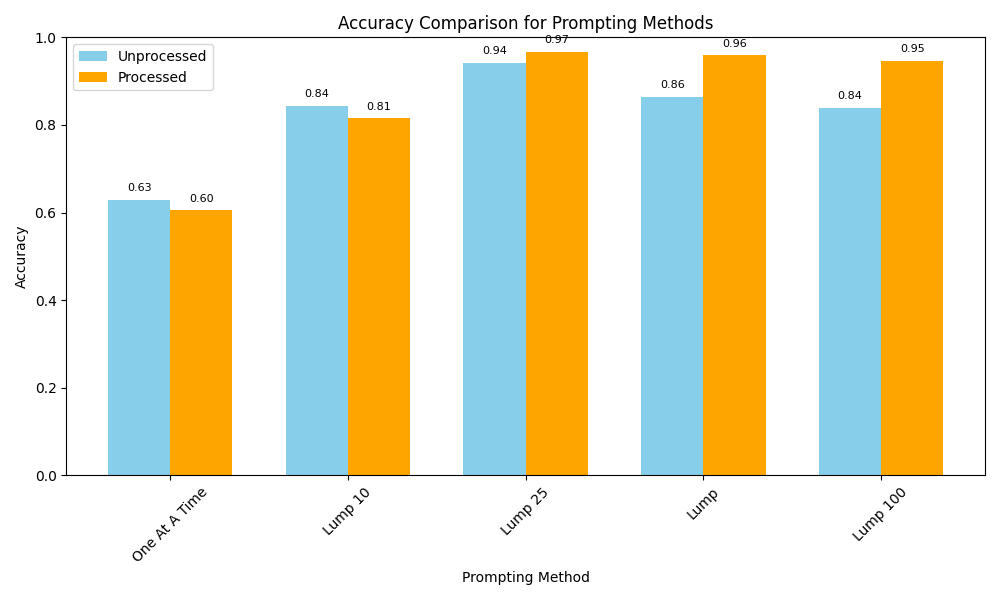
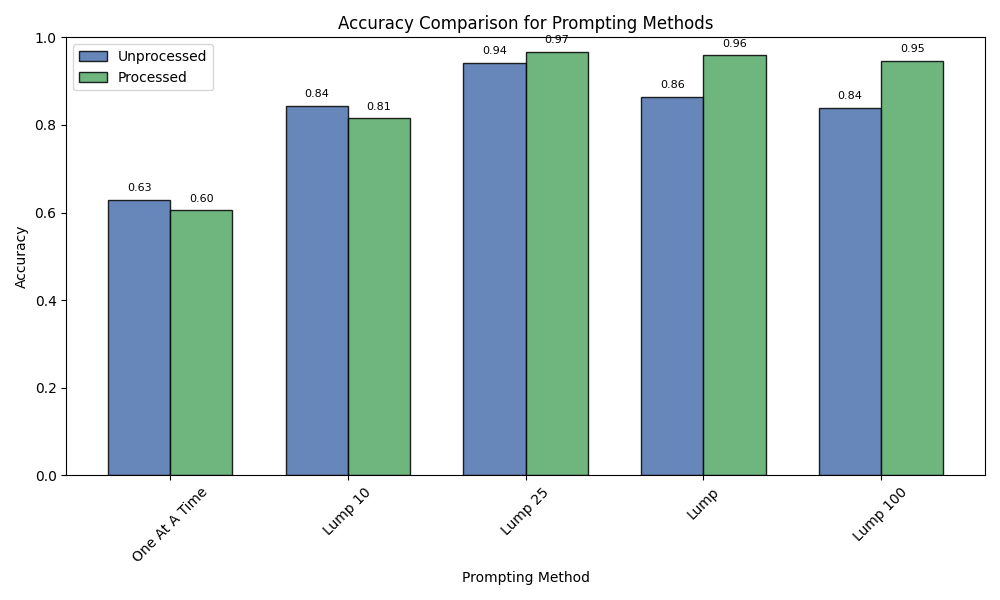
Added plots

diff --git a/langchain_intro/accuracyPlot3_1.py b/langchain_intro/accuracyPlot3_1.py
@@ -42,8 +42,8 @@ width = 0.35  # Width of bars
 
 # Plotting
 plt.figure(figsize=(10, 6))
-plt.bar(x - width / 2, unprocessed_values, width, label="Unprocessed", color="skyblue")
-plt.bar(x + width / 2, processed_values, width, label="Processed", color="orange")
+plt.bar(x - width / 2, unprocessed_values, width, label="Unprocessed", color="#4c72b0", alpha=0.85, edgecolor="black")
+plt.bar(x + width / 2, processed_values, width, label="Processed", color="#55a868", alpha=0.85, edgecolor="black")
 
 # Add labels, title, and legend
 plt.xlabel("Prompting Method")
